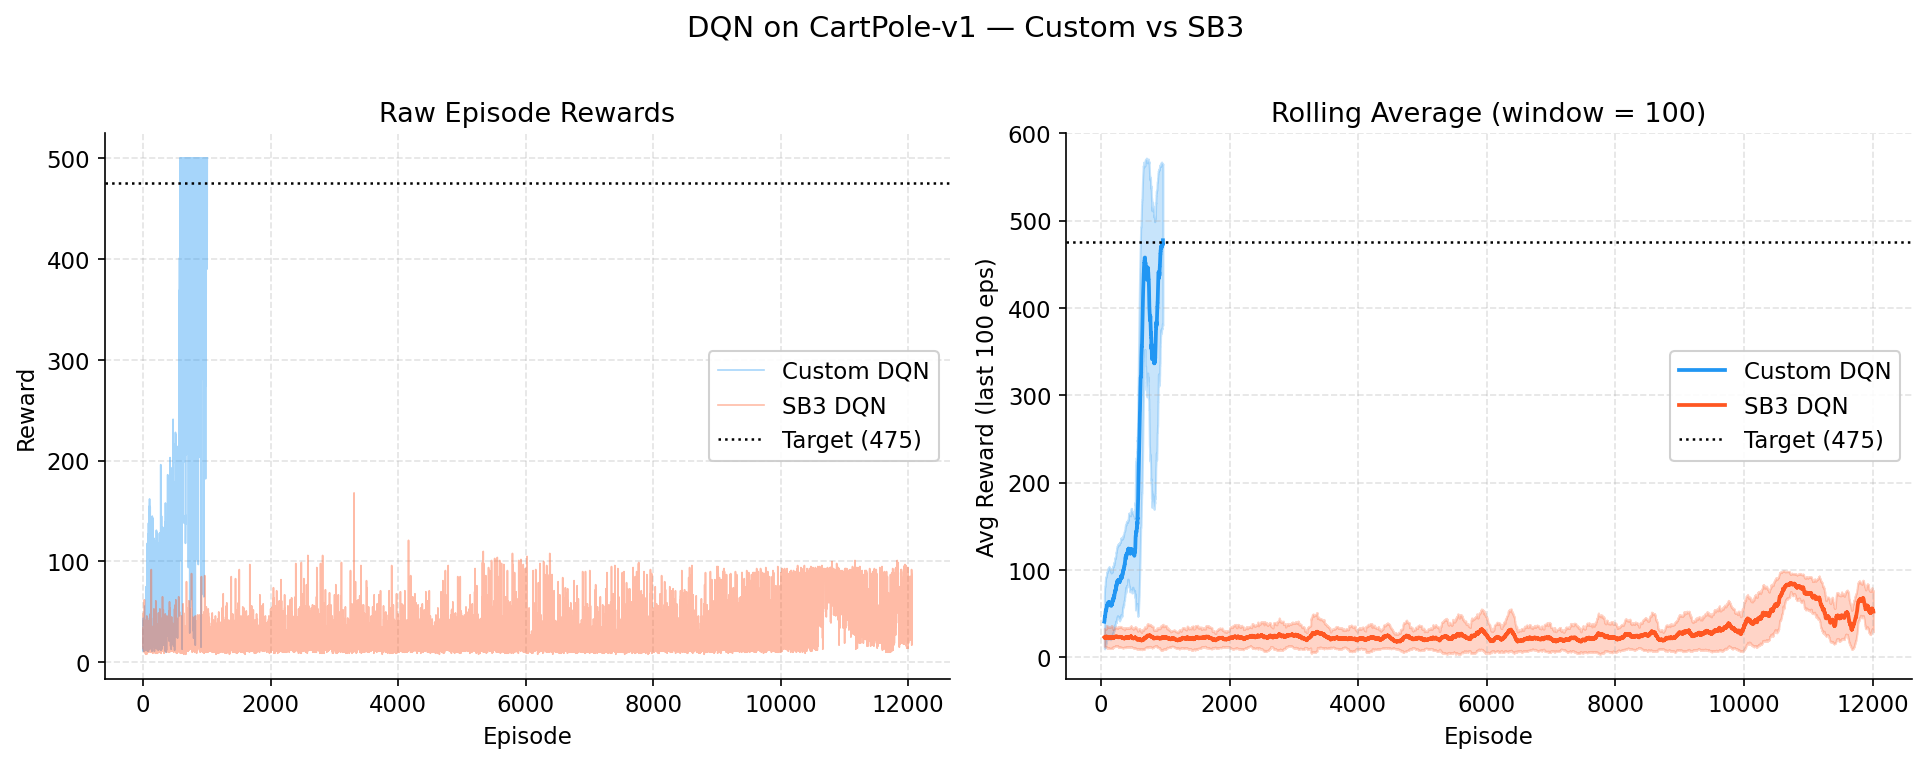
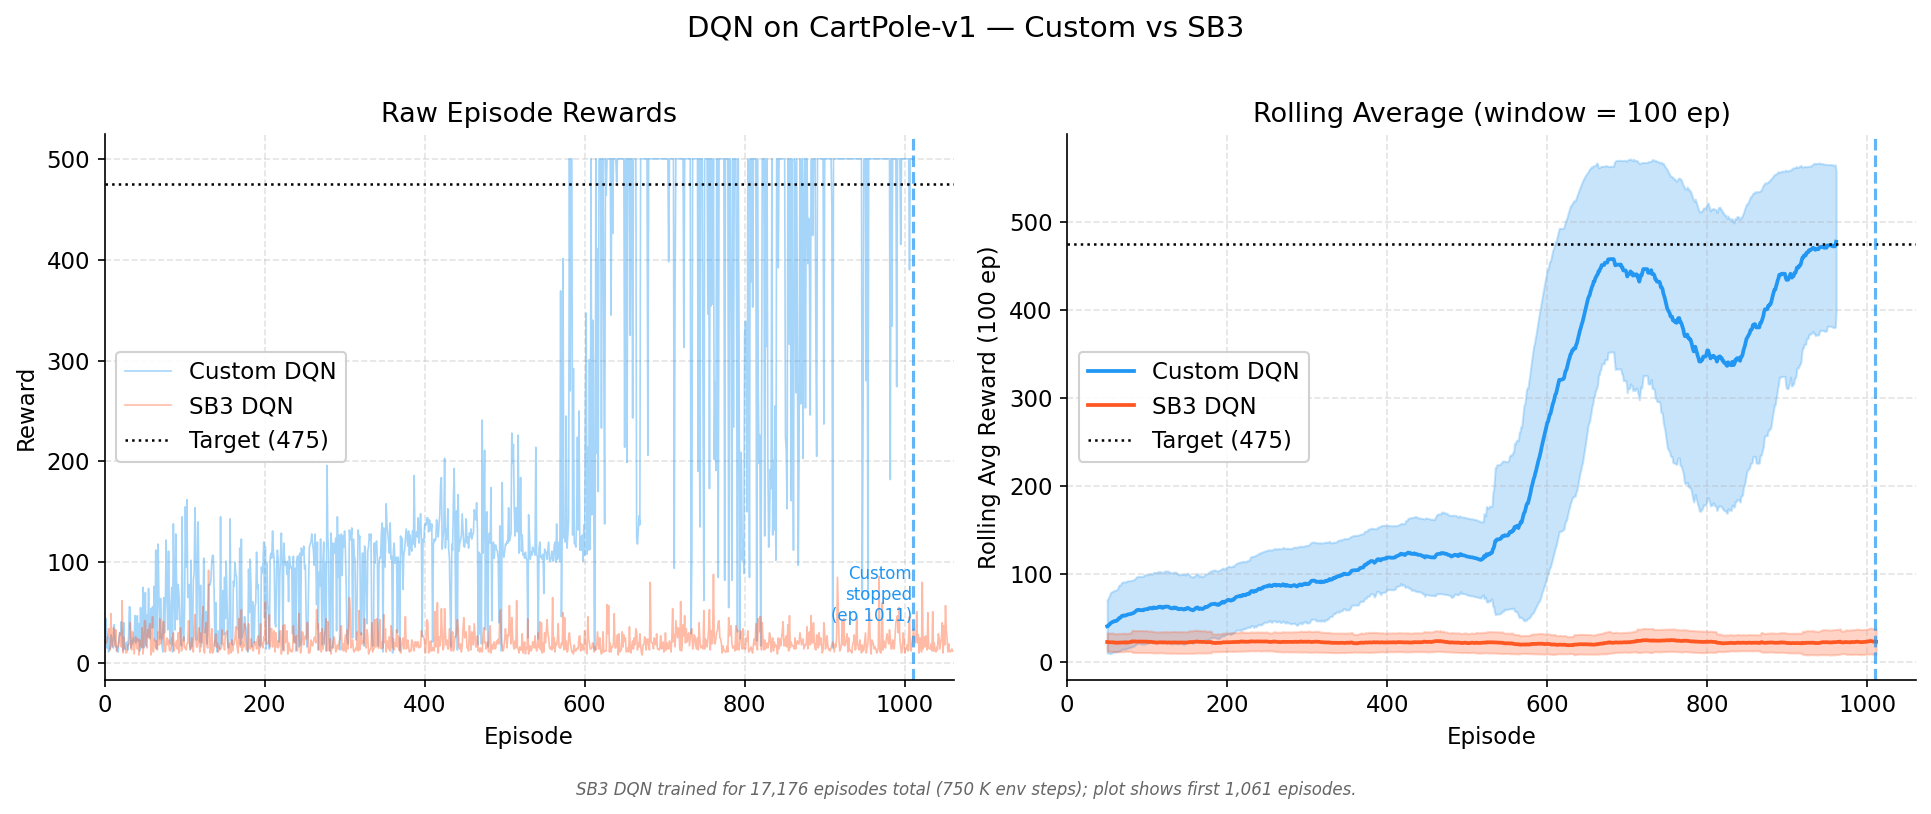
compare_sb3: fix x-axis parity — shared episode index, clip SB3 to our stopping point, mark convergence

diff --git a/implementation/step01/compare_sb3.py b/implementation/step01/compare_sb3.py
@@ -228,25 +228,43 @@ def plot_dqn_comparison(
     target: float,
     window: int = 100,
 ):
-    """Two-panel figure: raw episode rewards + 100-episode rolling average."""
+    """Two-panel figure: raw episode rewards + 100-episode rolling average.
+
+    Both curves are plotted on a shared episode-index x-axis, capped at our
+    implementation's stopping episode so both are visible at the same scale.
+    SB3 trained for many more episodes (CartPole episodes are short when the
+    agent fails), so we clip its display range and annotate the total count.
+    """
     figure_style()
     fig, (ax1, ax2) = plt.subplots(1, 2, figsize=(13, 5))
     fig.suptitle("DQN on CartPole-v1 — Custom vs SB3", fontsize=14, y=1.01)
 
+    our_n   = len(our_episodes)
+    sb3_n   = len(sb3_episodes)
+    x_limit = our_n + max(window // 2, 30)   # small right-side buffer
+
+    # Clip SB3 to the visible window so both curves share the same x-range
+    sb3_clipped = sb3_episodes[:x_limit]
+
     # ---- Raw rewards ----
-    # NOTE: x-axis is episode index. Because episode length varies (short when
-    # failing, long ~500 when solved), this axis is NOT equivalent to timesteps.
-    # Treat it as a rough relative comparison, not an exact sample-efficiency claim.
-    ax1.set_title("Raw Episode Rewards (episode index, not timesteps)")
-    ax1.plot(our_episodes, color=C_OUR, alpha=0.4, linewidth=0.8, label="Custom DQN")
-    ax1.plot(sb3_episodes, color=C_SB3, alpha=0.4, linewidth=0.8, label="SB3 DQN")
-    ax1.axhline(target, color="k", linewidth=1.2, linestyle=":", label=f"Target ({target:.0f})")
-    ax1.set_xlabel("Episode (variable length — not timesteps)")
+    ax1.set_title("Raw Episode Rewards")
+    ax1.plot(range(our_n), our_episodes,
+             color=C_OUR, alpha=0.4, linewidth=0.8, label="Custom DQN")
+    ax1.plot(range(len(sb3_clipped)), sb3_clipped,
+             color=C_SB3, alpha=0.4, linewidth=0.8, label="SB3 DQN")
+    ax1.axhline(target, color="k", linewidth=1.2, linestyle=":",
+                label=f"Target ({target:.0f})")
+    ax1.axvline(our_n - 1, color=C_OUR, linewidth=1.5, linestyle="--", alpha=0.7)
+    ax1.text(our_n - 2, target * 0.08,
+             f"Custom\nstopped\n(ep {our_n})",
+             color=C_OUR, fontsize=8, ha="right", va="bottom")
+    ax1.set_xlabel("Episode")
     ax1.set_ylabel("Reward")
+    ax1.set_xlim(0, x_limit)
     ax1.legend()
 
     # ---- Rolling average ----
-    ax2.set_title(f"Rolling Average (window = {window})")
+    ax2.set_title(f"Rolling Average (window = {window} ep)")
     w = window
 
     if len(our_episodes) >= w:
@@ -257,18 +275,27 @@ def plot_dqn_comparison(
         ax2.fill_between(our_x, our_avg - our_std, our_avg + our_std,
                          color=C_OUR, alpha=C_SHADE)
 
-    if len(sb3_episodes) >= w:
-        sb3_avg = rolling_avg(sb3_episodes, w)
-        sb3_std = rolling_std(sb3_episodes, w)
-        sb3_x   = x_axis_for_rolling(sb3_episodes, w)
+    if len(sb3_clipped) >= w:
+        sb3_avg = rolling_avg(sb3_clipped, w)
+        sb3_std = rolling_std(sb3_clipped, w)
+        sb3_x   = x_axis_for_rolling(sb3_clipped, w)
         ax2.plot(sb3_x, sb3_avg, color=C_SB3, label="SB3 DQN")
         ax2.fill_between(sb3_x, sb3_avg - sb3_std, sb3_avg + sb3_std,
                          color=C_SB3, alpha=C_SHADE)
 
-    ax2.axhline(target, color="k", linewidth=1.2, linestyle=":", label=f"Target ({target:.0f})")
+    ax2.axhline(target, color="k", linewidth=1.2, linestyle=":",
+                label=f"Target ({target:.0f})")
+    ax2.axvline(our_n - 1, color=C_OUR, linewidth=1.5, linestyle="--", alpha=0.7)
     ax2.set_xlabel("Episode")
-    ax2.set_ylabel(f"Avg Reward (last {w} eps)")
+    ax2.set_ylabel(f"Rolling Avg Reward ({w} ep)")
+    ax2.set_xlim(0, x_limit)
     ax2.legend()
+
+    if sb3_n > our_n:
+        fig.text(0.5, -0.03,
+                 f"SB3 DQN trained for {sb3_n:,} episodes total "
+                 f"(750 K env steps); plot shows first {x_limit:,} episodes.",
+                 ha="center", fontsize=8, style="italic", color="#666666")
 
     plt.tight_layout()
     out = FIGURES_DIR / "dqn_comparison.png"
@@ -285,23 +312,44 @@ def plot_ppo_comparison(
     target: float,
     window: int = 50,
 ):
-    """Two-panel figure: raw episode rewards vs steps + rolling average."""
+    """Two-panel figure: raw episode rewards + rolling average.
+
+    Both panels use episode index as the x-axis.
+    Rationale: our_steps are TB event steps = episode counts (0..N_ep), while
+    sb3_steps are actual environment timesteps (0..500K) — mixing them on the
+    same axis collapses our curve to a single pixel at x≈0.  Using episode
+    index for both gives a fair, readable comparison.
+    """
     figure_style()
     fig, (ax1, ax2) = plt.subplots(1, 2, figsize=(13, 5))
     fig.suptitle("PPO on LunarLander-v3 — Custom vs SB3", fontsize=14, y=1.01)
 
-    # ---- Raw rewards vs environment steps ----
+    our_n   = len(our_rewards)
+    sb3_n   = len(sb3_rewards)
+    x_limit = our_n + max(window // 2, 30)
+
+    # Clip SB3 to the same episode window as our impl
+    sb3_clipped = sb3_rewards[:x_limit]
+
+    # ---- Raw rewards (both episode-indexed) ----
     ax1.set_title("Raw Episode Rewards")
-    ax1.plot(our_steps, our_rewards, color=C_OUR, alpha=0.35, linewidth=0.8, label="Custom PPO")
-    ax1.plot(sb3_steps, sb3_rewards, color=C_SB3, alpha=0.35, linewidth=0.8, label="SB3 PPO")
-    ax1.axhline(target, color="k", linewidth=1.2, linestyle=":", label=f"Target ({target:.0f})")
-    ax1.xaxis.set_major_formatter(mticker.FuncFormatter(lambda x, _: f"{x/1000:.0f}K"))
-    ax1.set_xlabel("Environment Steps")
+    ax1.plot(range(our_n), our_rewards,
+             color=C_OUR, alpha=0.35, linewidth=0.8, label="Custom PPO")
+    ax1.plot(range(len(sb3_clipped)), sb3_clipped,
+             color=C_SB3, alpha=0.35, linewidth=0.8, label="SB3 PPO")
+    ax1.axhline(target, color="k", linewidth=1.2, linestyle=":",
+                label=f"Target ({target:.0f})")
+    ax1.axvline(our_n - 1, color=C_OUR, linewidth=1.5, linestyle="--", alpha=0.7)
+    ax1.text(our_n - 2, target * -1.5,
+             f"Custom\nstopped\n(ep {our_n})",
+             color=C_OUR, fontsize=8, ha="right", va="top")
+    ax1.set_xlabel("Episode")
     ax1.set_ylabel("Reward")
+    ax1.set_xlim(0, x_limit)
     ax1.legend()
 
-    # ---- Rolling average vs episode index ----
-    ax2.set_title(f"Rolling Average (window = {window} episodes)")
+    # ---- Rolling average (both episode-indexed) ----
+    ax2.set_title(f"Rolling Average (window = {window} ep)")
     w = window
 
     if len(our_rewards) >= w:
@@ -312,18 +360,27 @@ def plot_ppo_comparison(
         ax2.fill_between(our_x, our_avg - our_std, our_avg + our_std,
                          color=C_OUR, alpha=C_SHADE)
 
-    if len(sb3_rewards) >= w:
-        sb3_avg = rolling_avg(sb3_rewards, w)
-        sb3_std = rolling_std(sb3_rewards, w)
-        sb3_x   = x_axis_for_rolling(sb3_rewards, w)
+    if len(sb3_clipped) >= w:
+        sb3_avg = rolling_avg(sb3_clipped, w)
+        sb3_std = rolling_std(sb3_clipped, w)
+        sb3_x   = x_axis_for_rolling(sb3_clipped, w)
         ax2.plot(sb3_x, sb3_avg, color=C_SB3, label="SB3 PPO")
         ax2.fill_between(sb3_x, sb3_avg - sb3_std, sb3_avg + sb3_std,
                          color=C_SB3, alpha=C_SHADE)
 
-    ax2.axhline(target, color="k", linewidth=1.2, linestyle=":", label=f"Target ({target:.0f})")
+    ax2.axhline(target, color="k", linewidth=1.2, linestyle=":",
+                label=f"Target ({target:.0f})")
+    ax2.axvline(our_n - 1, color=C_OUR, linewidth=1.5, linestyle="--", alpha=0.7)
     ax2.set_xlabel("Episode")
-    ax2.set_ylabel(f"Avg Reward (last {w} eps)")
+    ax2.set_ylabel(f"Rolling Avg Reward ({w} ep)")
+    ax2.set_xlim(0, x_limit)
     ax2.legend()
+
+    if sb3_n > our_n:
+        fig.text(0.5, -0.03,
+                 f"SB3 PPO trained for {sb3_n:,} episodes total "
+                 f"(500 K env steps); plot shows first {x_limit:,} episodes.",
+                 ha="center", fontsize=8, style="italic", color="#666666")
 
     plt.tight_layout()
     out = FIGURES_DIR / "ppo_comparison.png"
@@ -357,23 +414,37 @@ def plot_dqn_iterations(iteration_data: list[dict]):
     print(f"  Saved: {out}")
 
 
+def _best_rolling(rewards: list[float], window: int = 100) -> float:
+    """Return the best rolling-window average over the full training curve.
+
+    This is fair regardless of early stopping: it measures peak capability,
+    not where training happened to end.
+    """
+    arr = np.array(rewards, dtype=float)
+    if len(arr) < window:
+        return float(np.mean(arr))
+    avgs = np.convolve(arr, np.ones(window) / window, mode="valid")
+    return float(np.max(avgs))
+
+
 def plot_final_metrics(results: dict):
-    """Bar chart comparing final performance metrics."""
+    """Bar chart comparing best rolling-100 performance (fair with early stopping)."""
     figure_style()
     fig, axes = plt.subplots(1, 2, figsize=(10, 5))
-    fig.suptitle("Final Performance — Custom vs SB3", fontsize=14, y=1.01)
+    fig.suptitle("Peak Performance — Custom vs SB3  (best rolling-100 avg)",
+                 fontsize=14, y=1.01)
 
     # DQN
     ax = axes[0]
     dqn_data = results["dqn"]
     w = 100
-    our_fin = np.mean(dqn_data["our"][-w:])  if len(dqn_data["our"]) >= w  else np.mean(dqn_data["our"])
-    sb3_fin = np.mean(dqn_data["sb3"][-w:])  if len(dqn_data["sb3"]) >= w  else np.mean(dqn_data["sb3"])
+    our_fin = _best_rolling(dqn_data["our"], w)
+    sb3_fin = _best_rolling(dqn_data["sb3"], w)
     bars = ax.bar(["Custom DQN", "SB3 DQN"], [our_fin, sb3_fin],
                   color=[C_OUR, C_SB3], width=0.5, edgecolor="white")
     ax.axhline(DQN_CONFIG["reward_target"], color="k", linewidth=1.2, linestyle=":",
                label=f"Target ({DQN_CONFIG['reward_target']:.0f})")
-    ax.set_title("CartPole-v1 — Final Avg Reward (last 100 ep)")
+    ax.set_title("CartPole-v1 — Best Avg Reward (rolling 100 ep)")
     ax.set_ylabel("Mean Reward")
     ax.set_ylim(0, 520)
     for bar, val in zip(bars, [our_fin, sb3_fin]):
@@ -384,14 +455,13 @@ def plot_final_metrics(results: dict):
     # PPO
     ax = axes[1]
     ppo_data = results["ppo"]
-    w = 100
-    our_fin = np.mean(ppo_data["our_r"][-w:]) if len(ppo_data["our_r"]) >= w else np.mean(ppo_data["our_r"])
-    sb3_fin = np.mean(ppo_data["sb3_r"][-w:]) if len(ppo_data["sb3_r"]) >= w else np.mean(ppo_data["sb3_r"])
+    our_fin = _best_rolling(ppo_data["our_r"], w)
+    sb3_fin = _best_rolling(ppo_data["sb3_r"], w)
     bars = ax.bar(["Custom PPO", "SB3 PPO"], [our_fin, sb3_fin],
                   color=[C_OUR, C_SB3], width=0.5, edgecolor="white")
     ax.axhline(PPO_CONFIG["reward_target"], color="k", linewidth=1.2, linestyle=":",
                label=f"Target ({PPO_CONFIG['reward_target']:.0f})")
-    ax.set_title("LunarLander-v3 — Final Avg Reward (last 100 ep)")
+    ax.set_title("LunarLander-v3 — Best Avg Reward (rolling 100 ep)")
     ax.set_ylabel("Mean Reward")
     for bar, val in zip(bars, [our_fin, sb3_fin]):
         ax.text(bar.get_x() + bar.get_width()/2, bar.get_height() + 5,
@@ -439,11 +509,11 @@ def main():
         sb3_ppo = cache["sb3_ppo"]
     else:
         print("\n[Training SB3 DQN on CartPole-v1 ...]")
-        sb3_dqn = train_sb3_dqn(total_timesteps=350_000)
+        sb3_dqn = train_sb3_dqn()   # uses function default (750K steps)
         print(f"  Episodes captured: {len(sb3_dqn['rewards'])}")
 
         print("\n[Training SB3 PPO on LunarLander-v3 ...]")
-        sb3_ppo = train_sb3_ppo(total_timesteps=264_192)
+        sb3_ppo = train_sb3_ppo()   # uses function default (500K steps)
         print(f"  Episodes captured: {len(sb3_ppo['rewards'])}")
 
         save_cache({"sb3_dqn": sb3_dqn, "sb3_ppo": sb3_ppo})
